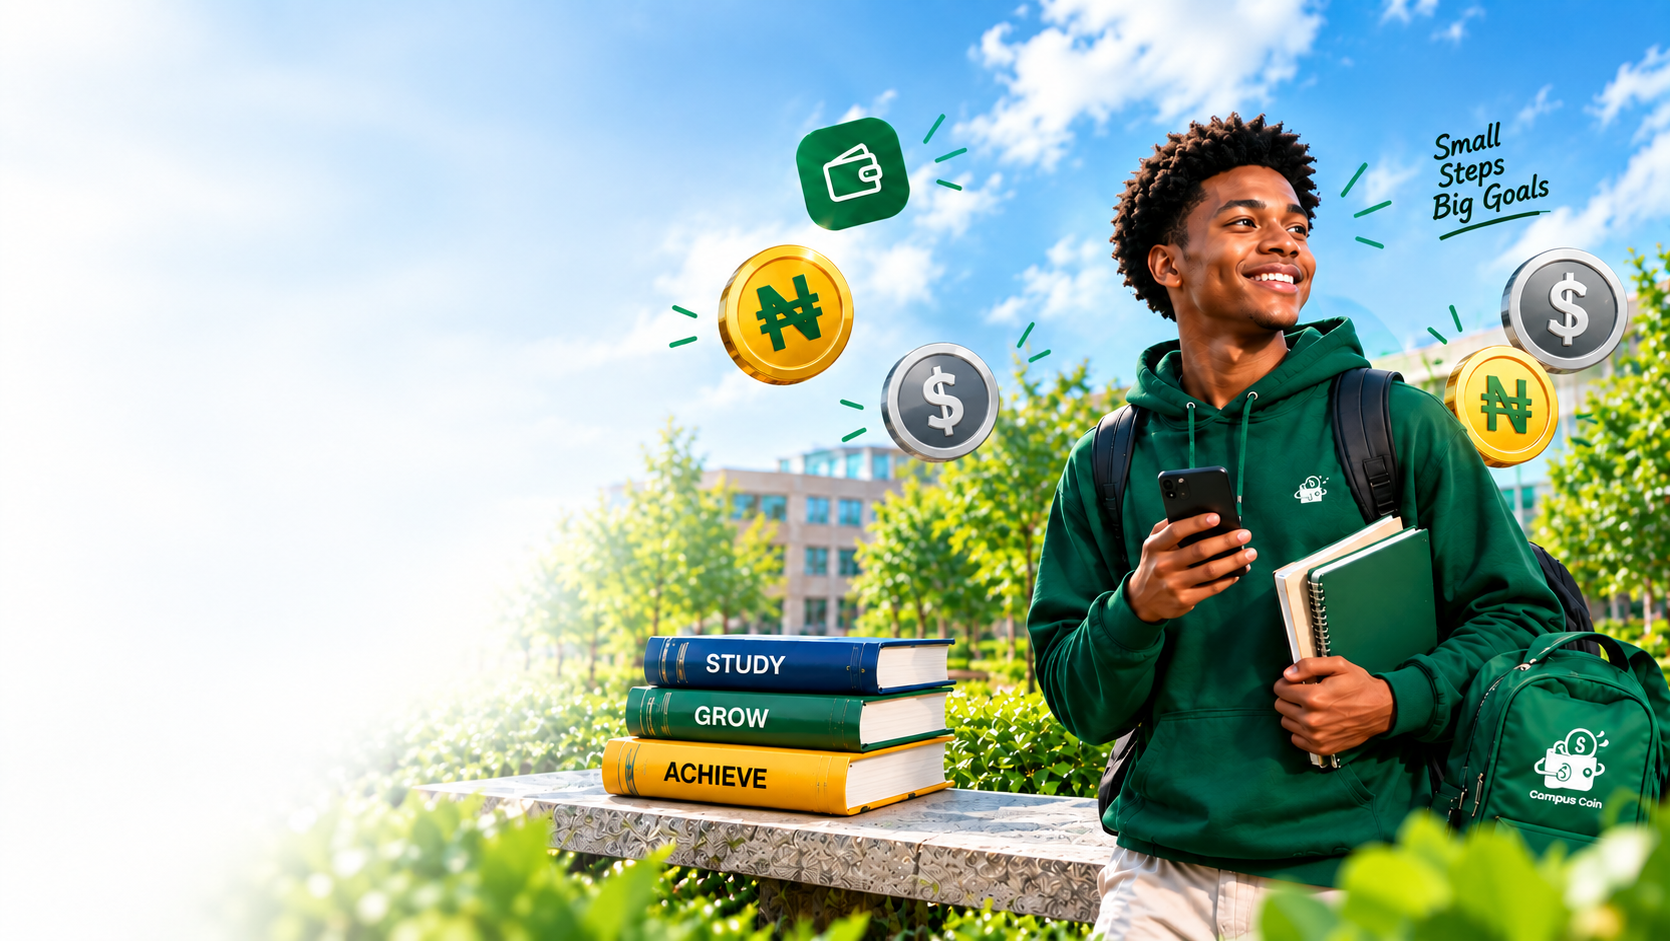
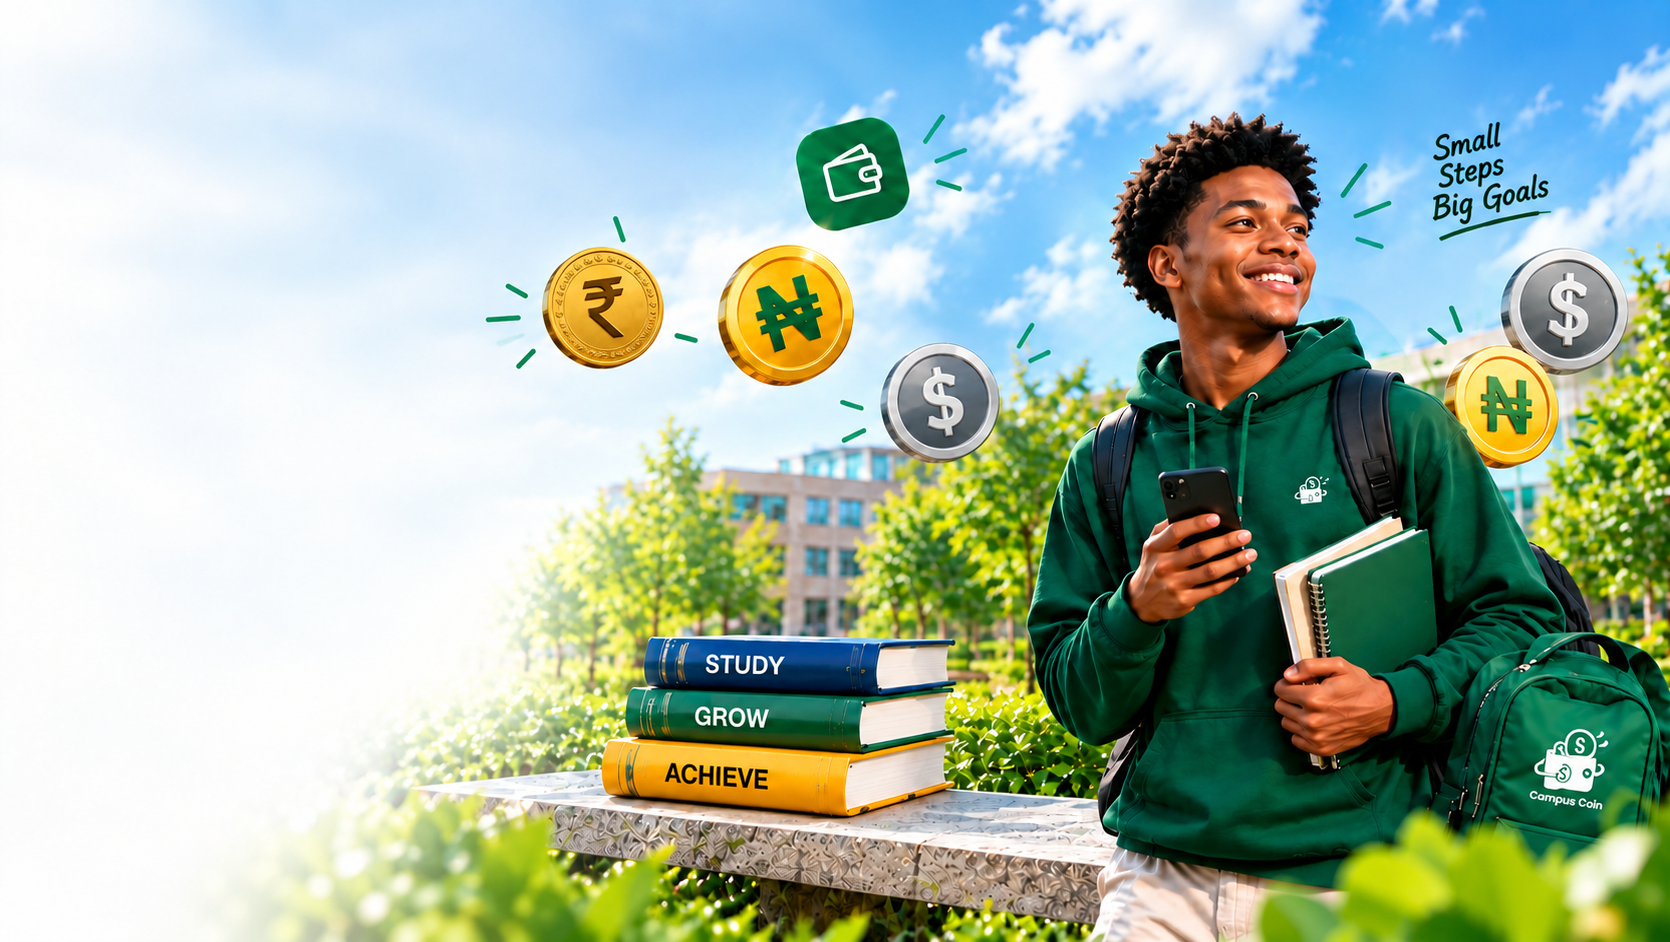
Add third homepage hero slide and setup

diff --git a/Backend/scripts/seedDemoUsers.js b/Backend/scripts/seedDemoUsers.js
@@ -1,0 +1,38 @@
+require('dotenv').config();
+
+const bcrypt = require('bcryptjs');
+const { connectDB, disconnectDB } = require('../src/config/db');
+const User = require('../src/models/User');
+
+const demoUsers = [
+  { fullName: 'Campus Coin Admin', email: 'admin@campuscoin.test', password: 'Admin@123', role: 'admin' },
+  { fullName: 'Campus Coin Student 1', email: 'student1@campuscoin.test', password: 'Student@123', role: 'student' },
+  { fullName: 'Campus Coin Student 2', email: 'student2@campuscoin.test', password: 'Student@123', role: 'student' },
+];
+
+async function seedDemoUsers() {
+  const mongoUri = process.env.MONGO_URI;
+  if (!mongoUri || !['localhost', '127.0.0.1'].includes(new URL(mongoUri).hostname)) {
+    throw new Error('Demo accounts can only be seeded into a local MongoDB. Set MONGO_URI to localhost or 127.0.0.1.');
+  }
+
+  if (!(await connectDB())) throw new Error('Could not connect to MongoDB. Start the local MongoDB service first.');
+
+  for (const { password, ...userData } of demoUsers) {
+    const passwordHash = await bcrypt.hash(password, 12);
+    await User.findOneAndUpdate(
+      { email: userData.email },
+      { $set: { ...userData, passwordHash, isActive: true } },
+      { upsert: true, new: true, runValidators: true, setDefaultsOnInsert: true },
+    );
+  }
+
+  console.log('Demo accounts are ready: admin@campuscoin.test, student1@campuscoin.test, student2@campuscoin.test');
+}
+
+seedDemoUsers()
+  .catch((error) => {
+    console.error(`Demo account seeding skipped: ${error.message}`);
+    process.exitCode = 1;
+  })
+  .finally(disconnectDB);

diff --git a/Frontend/src/assets/images/index.ts b/Frontend/src/assets/images/index.ts
@@ -6,6 +6,7 @@ import faqIllustration from './faq-illustration.webp';
 import heroBackground from './herobg-desk.webp';
 import heroPhone from './herophone.png';
 import heroSlideOne from './herosld1.png';
+import heroSlideThree from './herosld3.png';
 import logo from './logo.webp';
 import aiAssistantScreenshot from './screenshots/ai-assistant.webp';
 import aiAssistantScreenshotDark from './screenshots/ai-assistant-dark.webp';
@@ -25,6 +26,7 @@ export const assets = {
   heroBackground,
   heroPhone,
   heroSlideOne,
+  heroSlideThree,
   logo,
   screenshots: {
     aiAssistant: aiAssistantScreenshot,

diff --git a/Frontend/src/pages/public/HomePage.tsx b/Frontend/src/pages/public/HomePage.tsx
@@ -101,7 +101,7 @@ const appFeatureHighlights = [
 ];
 
 function HeroBackground() {
-  const slides = [assets.heroBackground, assets.heroSlideOne];
+  const slides = [assets.heroBackground, assets.heroSlideOne, assets.heroSlideThree];
   const [active, setActive] = useState(0);
   const [isPaused, setIsPaused] = useState(false);
 
